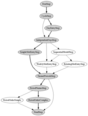
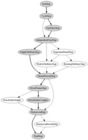
Update the test plan to include the new homeroom steps.  Add the "do you have a homeroom?" question step to the timetable wizard.

Changed region(s): [[0.0, 0.0, 1.0, 0.9828], [0.7045, 0.4914, 1.0, 0.5948], [0.0, 0.6724, 0.2727, 0.75]]

diff --git a/src/schooltool/timetable/browser/ttwizard.py b/src/schooltool/timetable/browser/ttwizard.py
@@ -24,6 +24,9 @@ on the schooltool mailing list, in ttschema-wireframes.pdf[1].
 
     [1] http://lists.schooltool.org/pipermail/schooltool/2005-June/001347.html
 
+It has been slightly modified since.  You can find an up-to-date diagram
+of the workflow in src/schooltool/app/browser/ftests/images/
+
 The workflow is as follows:
 
     1. "New timetable schema"
@@ -92,13 +95,21 @@ The workflow is as follows:
 
         (The user sees a grid of drop-downs.)
 
-    14. The timetable schema is created.
+    14. "Does your school have a homeroom period?"
+
+        Skip to step 16 if it doesn't.
+
+    15. "Indicate which period is the homeroom period."
+
+        (The user sees a list of drop-downs.)
+
+    16. The timetable schema is created.
 
 
-The shortest path through this workflow contains 6 steps, the longest contains
-11 steps.
+The shortest path through this workflow contains 7 steps, the longest contains
+13 steps.
 
-Step 14 needs the following data:
+Step 16 needs the following data:
 
     - title (determined in step 1)
     - timetable model factory (determined in step 2)
@@ -523,7 +534,7 @@ class NamedPeriodsStep(ChoiceStep):
         if session['named_periods']:
             return PeriodNamesStep(self.context, self.request)
         else:
-            return FinalStep(self.context, self.request)
+            return HomeroomStep(self.context, self.request)
 
 
 class PeriodNamesStep(FormStep):
@@ -627,7 +638,7 @@ class PeriodOrderSimple(Step):
         return True
 
     def next(self):
-        return FinalStep(self.context, self.request)
+        return HomeroomStep(self.context, self.request)
 
 
 class PeriodOrderComplex(Step):
@@ -684,7 +695,30 @@ class PeriodOrderComplex(Step):
         return True
 
     def next(self):
-        return FinalStep(self.context, self.request)
+        return HomeroomStep(self.context, self.request)
+
+
+class HomeroomStep(ChoiceStep):
+    """A step for choosing whether the school has homeroom periods."""
+
+    key = 'homeroom'
+
+    question = _("Do you check student attendance for the day in a homeroom"
+                 " period or equivalent?")
+
+    choices = (('yes', _("Yes")),
+               ('no',  _("No")))
+
+    def next(self):
+        session = self.getSessionData()
+        if session['homeroom'] == 'yes':
+            # TODO: HomeroomPeriodsStep
+            return FinalStep(self.context, self.request)
+        else:
+            return FinalStep(self.context, self.request)
+
+
+# TODO: HomeroomPeriodsStep
 
 
 class FinalStep(Step):

diff --git a/src/schooltool/timetable/browser/tests/test_ttwizard.py b/src/schooltool/timetable/browser/tests/test_ttwizard.py
@@ -760,7 +760,7 @@ def doctest_NamedPeriodsStep():
 
         >>> view.getSessionData()['named_periods'] = False
         >>> view.next()
-        <...ttwizard.FinalStep...>
+        <...ttwizard.HomeroomStep...>
 
     """
 
@@ -836,12 +836,13 @@ def doctest_PeriodNamesStep():
         >>> view.getSessionData()['period_names']
         [u'A', u'B', u'C', u'D']
 
-    The next page is FinalStep.
+    The next page is HomeroomStep.
 
         >>> view.next()
         <schooltool.timetable.browser.ttwizard.PeriodSequenceSameStep ...>
 
     """
+
 
 def doctest_PeriodSequenceSameStep():
     r"""Unit test for PeriodSequenceSameStep
@@ -865,6 +866,7 @@ def doctest_PeriodSequenceSameStep():
         <schooltool.timetable.browser.ttwizard.PeriodOrderComplex...>
 
     """
+
 
 def doctest_PeriodOrderSimple():
     """Unit test for PeriodOrderSimple view
@@ -945,7 +947,7 @@ def doctest_PeriodOrderSimple():
     The next step is always the final step:
 
         >>> view.next()
-        <...ttwizard.FinalStep ...>
+        <...ttwizard.HomeroomStep ...>
 
     If not all periods are in the request, update fails and the user
     gets an error.  This is unlikely in real life as the dropdowns
@@ -1127,7 +1129,7 @@ def doctest_PeriodOrderComplex():
     The next step is always the final step:
 
         >>> view.next()
-        <...ttwizard.FinalStep ...>
+        <...ttwizard.HomeroomStep ...>
 
     If not all periods are in the request, update fails and the user
     gets an error.  This is unlikely in real life as the dropdowns
@@ -1284,6 +1286,33 @@ def doctest_PeriodOrderComplex_weekly_rotating():
 
         >>> view.numSlots()
         [1, 1, 3, 1, 1]
+
+    """
+
+
+def doctest_HomeroomStep():
+    r"""Unit test for HomeroomStep
+
+        >>> from schooltool.timetable.browser.ttwizard import HomeroomStep
+        >>> context = app['ttschemas']
+        >>> request = TestRequest()
+        >>> view = HomeroomStep(context, request)
+
+    If you say that your school does not take attendance in a homeroom period,
+    you will be redirected to FinalStep.
+
+        >>> session = view.getSessionData()
+        >>> session['homeroom'] = 'no'
+        >>> view.next()
+        <...ttwizard.FinalStep...>
+
+    Otherwise, you will have to specify the homeroom period for each day
+
+    XXX not implemented yet
+
+        >>> session['homeroom'] = 'yes'
+        >>> view.next()
+        <...ttwizard.FinalStep...>
 
     """
 
